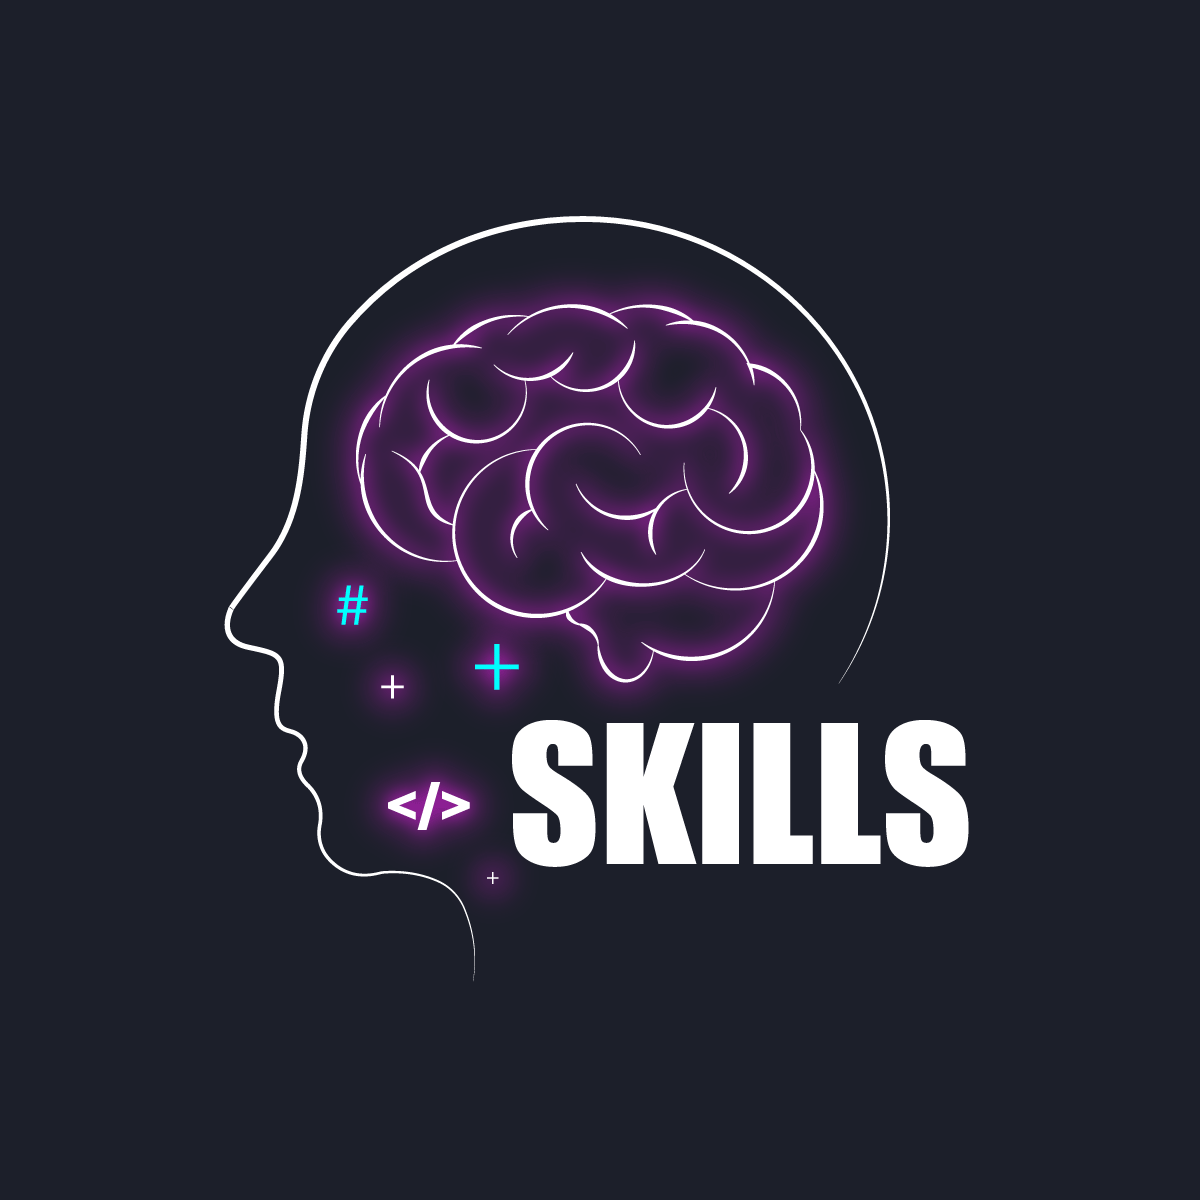
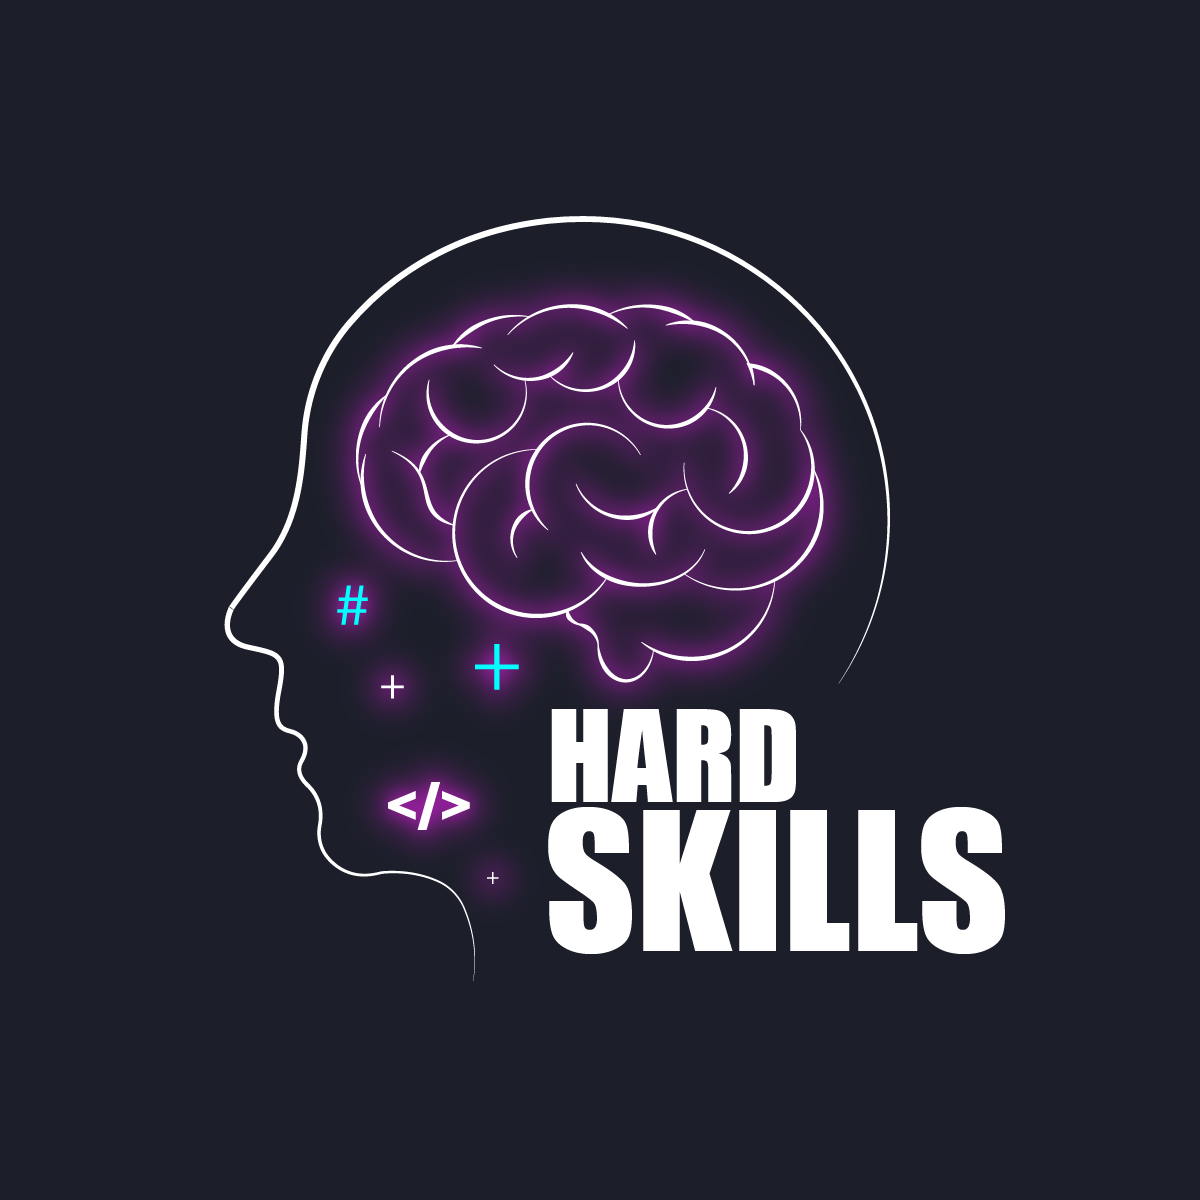
Soft Skills Ready

Changed region(s): [[0.4008, 0.5858, 0.8633, 0.8017]]

diff --git a/src/pages/Aboutme/About.jsx b/src/pages/Aboutme/About.jsx
@@ -28,6 +28,7 @@ function About() {
         <AboutTitle>About me</AboutTitle>
         <AboutMainSection>
           {/* <YoutubeEmbed embedId="58479"/> */}
+          <FotoSkills src="../img/SoftSkills.png"></FotoSkills>
           <AboutContainer>
             <AboutSubTitle>Who i am?</AboutSubTitle>
             <br />
@@ -45,7 +46,7 @@ function About() {
           </AboutContainer>
         </AboutMainSection>
 
-        <SkillsTitle>Skills</SkillsTitle>
+        <SkillsTitle>Hard Skills</SkillsTitle>
         <AboutSkillSection>
           <AboutSkillsContainer>
             <AboutSubTitle>What I know.</AboutSubTitle>

diff --git a/src/pages/Aboutme/Styles/AboutmeElements.js b/src/pages/Aboutme/Styles/AboutmeElements.js
@@ -26,7 +26,7 @@ export const AboutTitle = styled.h2`
     transform: translateX(-50%);
   }
   &:after{
-    content:'Who i am';
+    content:'Soft Skills';
     position: absolute;
     bottom: 5px;
     left: 50%;
@@ -127,11 +127,11 @@ export const AboutSkillSection = styled.section`
 `;
 
 export const FotoSkills = styled.img`
-width: 100%;
-height: 100%;
-justify-self: center;
-align-self: center;
-object-fit: fill;
+  width: 100%;
+  height: 100%;
+  justify-self: center;
+  align-self: center;
+  object-fit: contain;
 `;
 
 export const AboutContainer = styled.div`
